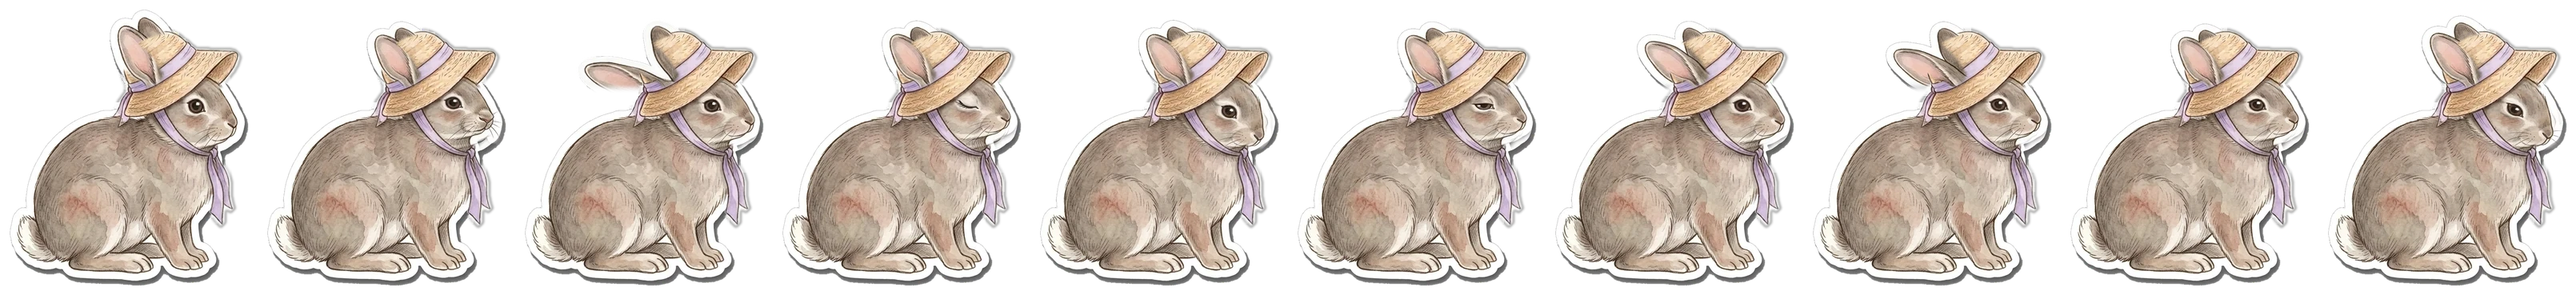
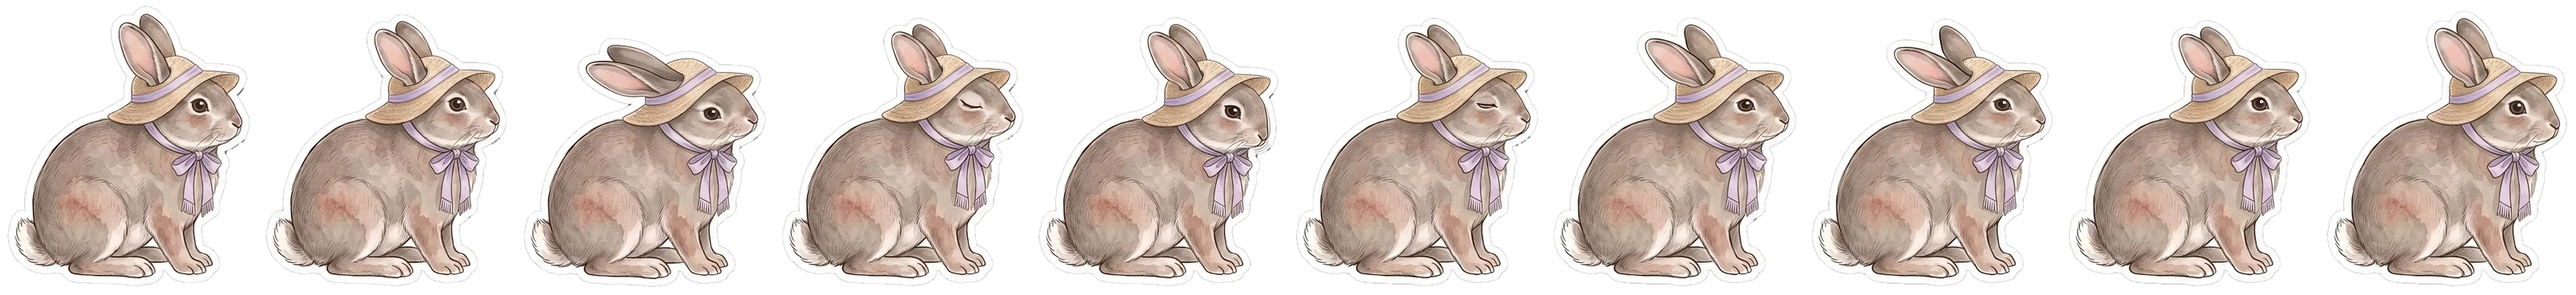
feat(world): repaint Bob without his bow and make it his first outfit (#219)
Bob's lilac bow was painted into his base art, so every hat had to paint
it out and "Just me" could never show him bare. His sitting sticker, idle
strip and hop strip are repainted bow-free, the five outfits are repainted
on the clean base, and the bow becomes its own head item with a sticker,
look and idle and hop strips.

The bow is first in Bob's wardrobe, so it is unlocked when he is met (he
is level 1, so always) and each basket now unlocks the next item one
later. An unchosen outfit (nil) wears the friend's starting item; "Just
me" and taking the bow off store an empty outfit, so he stays bare. Any
other head item replaces it as before. FriendSticker shows the starting
look so the small Bob stickers (onboarding, home, journey map) keep his
bow; DressedFriend's collage uses the bare base under worn parts. The
reading preview wears the fresh-journey outfit so snapshots match the app.

Sources go through the pipeline: characters/bunny-sit.png and
wardrobe-suites/bunny/bow.png, with the bow in suits.json and
wardrobe-anchors.json, exported by export-friends.sh, export-wardrobe.py
and export-looks.py. The strips and looks are placed as generated, like
gen_looks.py and gen_wood.py do. Other friends are unchanged.

Changed region(s): [[0.0, 0.0298, 1.0, 0.9837]]

diff --git a/HopTalesPackage/Tests/ContentTests/WardrobeTests.swift b/HopTalesPackage/Tests/ContentTests/WardrobeTests.swift
@@ -10,9 +10,11 @@ struct WardrobeTests {
     }
   }
 
-  @Test func everyFriendWearsFiveOfTheirWardrobe() {
+  @Test func everyFriendWearsFiveOfTheirWardrobeAndBobHisBowToo() {
     #expect(WardrobeLibrary.all[.hare]?.count == 12)
-    for friend in Friend.allCases {
+    #expect(WardrobeLibrary.all[.bunny]?.count == 9)
+    #expect(WardrobeLibrary.items(for: .bunny).count == 6)
+    for friend in Friend.allCases where friend != .bunny {
       #expect(WardrobeLibrary.items(for: friend).count == 5, "\(friend)")
       if friend != .hare { #expect(WardrobeLibrary.all[friend]?.count == 8, "\(friend)") }
     }
@@ -28,17 +30,52 @@ struct WardrobeTests {
   }
 
   @Test func onlyUnlockedItemsCanBeWornAndOneItemPerSlot() throws {
-    var progress = Progress(journey: Journey(starting: .bunny))
-    let items = WardrobeLibrary.items(for: .bunny)
-    progress.wear(items[1], on: .bunny)
-    #expect(progress.outfit(for: .bunny).isEmpty)
-    progress.wear(items[0], on: .bunny)
-    #expect(progress.outfit(for: .bunny) == [items[0]])
+    var progress = Progress(journey: Journey(starting: .hare))
+    let items = WardrobeLibrary.items(for: .hare)
+    progress.wear(items[1], on: .hare)
+    #expect(progress.outfit(for: .hare).isEmpty)
+    progress.wear(items[0], on: .hare)
+    #expect(progress.outfit(for: .hare) == [items[0]])
+    progress.baskets[.hare, default: Basket()].filled = 1
+    progress.wear(items[1], on: .hare)
+    #expect(progress.outfit(for: .hare) == [items[1]])
+    progress.takeOff(items[1].slot, from: .hare)
+    #expect(progress.outfit(for: .hare).isEmpty)
+  }
+
+  @Test func bobStartsTheJourneyInHisBow() throws {
+    let progress = Progress()
+    let bow = try #require(WardrobeLibrary.items(for: .bunny).first)
+    #expect(bow.id == "bow")
+    #expect(bow.slot == .head)
+    #expect(WardrobeLibrary.startingItem(for: .bunny) == bow)
+    #expect(progress.isUnlocked(bow, for: .bunny))
+    #expect(progress.outfit(for: .bunny) == [bow])
+    #expect(progress.newestItem(for: .bunny) == bow)
+    #expect(WardrobeLibrary.startingItem(for: .hare) == nil)
+    #expect(Progress(journey: Journey(starting: .hare)).outfit(for: .hare).isEmpty)
+  }
+
+  @Test func anotherHatReplacesBobsBow() throws {
+    var progress = Progress()
     progress.baskets[.bunny, default: Basket()].filled = 1
-    progress.wear(items[1], on: .bunny)
-    #expect(progress.outfit(for: .bunny) == [items[1]])
+    let crown = try #require(WardrobeLibrary.items(for: .bunny).first { $0.id == "bluebell-crown" })
+    progress.wear(crown, on: .bunny)
+    #expect(progress.outfit(for: .bunny) == [crown])
     progress.takeOff(.head, from: .bunny)
     #expect(progress.outfit(for: .bunny).isEmpty)
+  }
+
+  @Test func takingOffBobsBowLeavesHimBare() {
+    var bowOff = Progress()
+    bowOff.takeOff(.head, from: .bunny)
+    #expect(bowOff.outfits[.bunny] == [:])
+    #expect(bowOff.outfit(for: .bunny).isEmpty)
+
+    var justMe = Progress()
+    justMe.undress(.bunny)
+    #expect(justMe.outfits[.bunny] == [:])
+    #expect(justMe.outfit(for: .bunny).isEmpty)
   }
 
   @Test func aFriendWearsOneLookAtATime() throws {
@@ -54,7 +91,7 @@ struct WardrobeTests {
 
   @Test func aFullBasketNamesTheItemItUnlocks() {
     let moment = JourneyMoment.basketFull(.bunny, number: 1)
-    #expect(moment.unlockedItem?.id == "bonnet")
+    #expect(moment.unlockedItem?.id == "bluebell-crown")
   }
 
   @Test func pairedItemsHaveTwoParts() throws {

diff --git a/HopTalesPackage/Tests/AppFeatureTests/WardrobeTests.swift b/HopTalesPackage/Tests/AppFeatureTests/WardrobeTests.swift
@@ -48,8 +48,46 @@ struct WardrobeFeatureTests {
     store.send(.itemTapped(item)) { $0.progress.outfits[.hare] = [item.slot: item.id] }
     store.send(.itemTapped(item)) { $0.progress.outfits[.hare] = [:] }
     store.send(.itemTapped(item)) { $0.progress.outfits[.hare] = [item.slot: item.id] }
-    store.send(.justMeTapped) { $0.progress.outfits[.hare] = nil }
+    store.send(.justMeTapped) { $0.progress.outfits[.hare] = [:] }
     #expect(saved.value.outfit(for: .hare).isEmpty)
+    await store.dismount()
+  }
+
+  @Test func bobWearsHisBowUntilSomethingElseIsChosen() async throws {
+    var basket = Basket()
+    basket.filled = 1
+    let fresh = Content.Progress(baskets: [.bunny: basket])
+    let saved = LockIsolated(fresh)
+    let store = TestStore(initialState: Wardrobe.State(friend: .bunny)) {
+      Wardrobe()
+        .dependency(ProgressStore(load: { saved.value }, save: { saved.setValue($0) }))
+    } changes: {
+      $0.progress = fresh
+    }
+    let items = WardrobeLibrary.items(for: .bunny)
+    let bow = try #require(items.first { $0.id == "bow" })
+    let crown = try #require(items.first { $0.id == "bluebell-crown" })
+    #expect(store.state.outfit == [bow])
+
+    store.send(.itemTapped(crown)) { $0.progress.outfits[.bunny] = [.head: crown.id] }
+    #expect(saved.value.outfit(for: .bunny) == [crown])
+    store.send(.itemTapped(bow)) { $0.progress.outfits[.bunny] = [.head: bow.id] }
+    store.send(.itemTapped(bow)) { $0.progress.outfits[.bunny] = [:] }
+    #expect(saved.value.outfit(for: .bunny).isEmpty)
+    await store.dismount()
+  }
+
+  @Test func justMeTakesOffBobsStartingBow() async {
+    let saved = LockIsolated(Content.Progress())
+    let store = TestStore(initialState: Wardrobe.State(friend: .bunny)) {
+      Wardrobe()
+        .dependency(ProgressStore(load: { saved.value }, save: { saved.setValue($0) }))
+    }
+    #expect(store.state.outfit.map(\.id) == ["bow"])
+
+    store.send(.justMeTapped) { $0.progress.outfits[.bunny] = [:] }
+    #expect(store.state.outfit.isEmpty)
+    #expect(saved.value.outfit(for: .bunny).isEmpty)
     await store.dismount()
   }
 }

diff --git a/HopTalesPackage/Sources/Content/Wardrobe.swift b/HopTalesPackage/Sources/Content/Wardrobe.swift
@@ -58,7 +58,7 @@ public enum WardrobeLibrary {
 
   public static let wearable: [Friend: [String]] = [
     .hare: ["straw", "bowtie", "crown", "specs", "satchel"],
-    .bunny: ["bluebell-crown", "bonnet", "heart-glasses", "daisy-chain", "basket-pack"],
+    .bunny: ["bow", "bluebell-crown", "bonnet", "heart-glasses", "daisy-chain", "basket-pack"],
     .frog: ["lilypad-hat", "goggles", "check-bowtie", "reed-satchel", "raincoat"],
     .crow: ["flat-cap", "top-hat", "aviator-goggles", "autumn-scarf", "post-satchel"],
     .cat: ["garden-hat", "beret", "cateye-glasses", "red-bell-collar", "cardigan"],
@@ -67,6 +67,8 @@ public enum WardrobeLibrary {
       "acorn-cap", "antenna-poms", "explorer-goggles", "clover-bowtie", "ladybird-cape"
     ]
   ]
+
+  public static let starting: [Friend: String] = [.bunny: "bow"]
 
   @TaskLocal public static var painted: [Friend: Set<String>] = {
     guard
@@ -89,6 +91,10 @@ public enum WardrobeLibrary {
       library.first { $0.id == id }
     }
   }
+
+  public static func startingItem(for friend: Friend) -> WardrobeItem? {
+    starting[friend].flatMap { id in items(for: friend).first { $0.id == id } }
+  }
 }
 
 extension Progress {
@@ -109,7 +115,7 @@ extension Progress {
   }
 
   public func outfit(for friend: Friend) -> [WardrobeItem] {
-    let chosen = outfits[friend] ?? [:]
+    let chosen = choices(for: friend)
     return WardrobeLibrary.items(for: friend).filter { item in
       chosen[item.slot] == item.id && isUnlocked(item, for: friend)
     }
@@ -121,11 +127,19 @@ extension Progress {
   }
 
   public mutating func undress(_ friend: Friend) {
-    outfits[friend] = nil
+    outfits[friend] = [:]
   }
 
   public mutating func takeOff(_ slot: Slot, from friend: Friend) {
-    outfits[friend]?[slot] = nil
+    var chosen = choices(for: friend)
+    chosen[slot] = nil
+    outfits[friend] = chosen
+  }
+
+  private func choices(for friend: Friend) -> [Slot: String] {
+    if let chosen = outfits[friend] { return chosen }
+    guard let item = WardrobeLibrary.startingItem(for: friend) else { return [:] }
+    return [item.slot: item.id]
   }
 }
 

diff --git a/HopTalesPackage/Sources/World/HareArt.swift b/HopTalesPackage/Sources/World/HareArt.swift
@@ -215,6 +215,7 @@ public struct FriendSticker: View {
   let friend: Friend
   let height: CGFloat
   var isSilhouette = false
+  var isBare = false
 
   public init(_ friend: Friend, height: CGFloat, isSilhouette: Bool = false) {
     self.friend = friend
@@ -222,8 +223,19 @@ public struct FriendSticker: View {
     self.isSilhouette = isSilhouette
   }
 
+  init(bare friend: Friend, height: CGFloat) {
+    self.init(friend, height: height)
+    isBare = true
+  }
+
+  private var art: UIImage? {
+    let base = friend == .hare ? "hare-sit" : "friend-\(friend.rawValue)"
+    guard !isBare, let item = WardrobeLibrary.starting[friend] else { return MeadowArt.image(base) }
+    return MeadowArt.image("look-\(friend.rawValue)-\(item)") ?? MeadowArt.image(base)
+  }
+
   public var body: some View {
-    if let image = MeadowArt.image(friend == .hare ? "hare-sit" : "friend-\(friend.rawValue)") {
+    if let image = art {
       let width = height * image.size.width / max(image.size.height, 1)
       Group {
         if isSilhouette {

diff --git a/HopTalesPackage/Tests/AppFeatureTests/RootTests.swift b/HopTalesPackage/Tests/AppFeatureTests/RootTests.swift
@@ -38,7 +38,7 @@ struct RootTests {
     let friend = story.friend
     store.send(.home(.storyTapped(story))) {
       $0.path = [.reading(Reading.State.DebugSnapshot(
-        bigWords: big, friend: friend, treat: treat, story: story
+        bigWords: big, friend: friend, look: "bow", treat: treat, story: story
       ))]
     }
 
@@ -46,7 +46,8 @@ struct RootTests {
       $0.path = [
         .reading(
           Reading.State.DebugSnapshot(
-            authorization: .authorized, bigWords: big, friend: friend, treat: treat, story: story
+            authorization: .authorized, bigWords: big, friend: friend, look: "bow", treat: treat,
+            story: story
           )
         )
       ]

diff --git a/HopTalesPackage/Sources/World/DressedFriend.swift b/HopTalesPackage/Sources/World/DressedFriend.swift
@@ -29,7 +29,7 @@ public struct DressedFriend: View {
     let aspect = sticker.map { $0.size.width / max($0.size.height, 1) } ?? 0.8
     let size = CGSize(width: height * aspect, height: height)
     return ZStack(alignment: .topLeading) {
-      FriendSticker(friend, height: height)
+      FriendSticker(bare: friend, height: height)
       ForEach(outfit) { item in
         ForEach(Array(item.parts.enumerated()), id: \.offset) { index, part in
           WornPart(

diff --git a/HopTalesPackage/Sources/Reading/ReadingScreenPreview.swift b/HopTalesPackage/Sources/Reading/ReadingScreenPreview.swift
@@ -33,6 +33,7 @@ struct ReadingScreenPreview: View {
 
   private var state: Reading.State {
     var state = Reading.State(story: story, friend: friend ?? story.friend)
+    state.look = Content.Progress().outfit(for: state.friend).first?.id
     state.soundButtons = soundButtons
     switch moment {
     case let .at(sentence, word):

diff --git a/HopTalesPackage/Tests/ContentTests/ProgressStoreTests.swift b/HopTalesPackage/Tests/ContentTests/ProgressStoreTests.swift
@@ -24,6 +24,7 @@ struct ProgressStoreTests {
     basket.golden = 1
     progress.baskets[.frog] = basket
     progress.outfits[.frog] = [.head: "straw-hat"]
+    progress.outfits[.bunny] = [:]
     progress.wordsRead = ["castle-road": 18, "pond": 4]
     store.save(progress)
     #expect(store.load() == progress)
